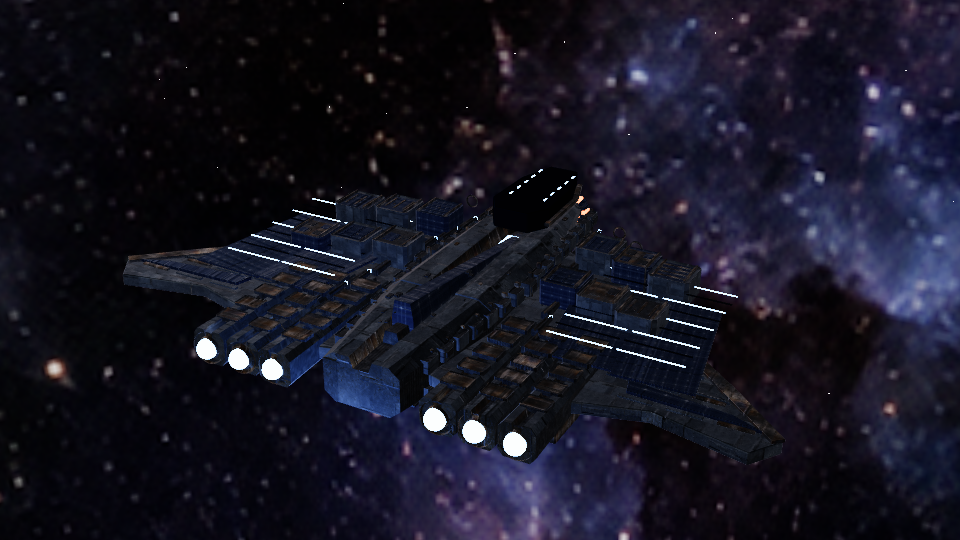
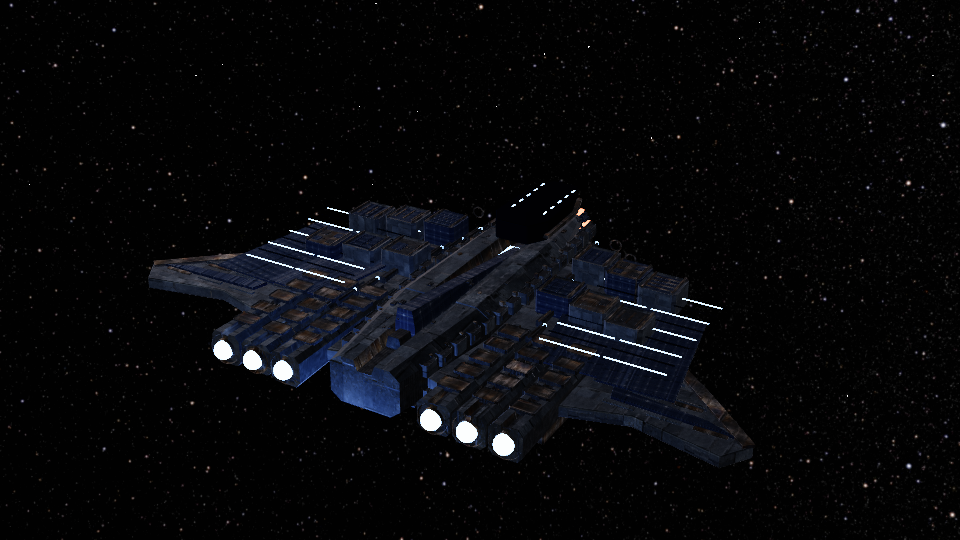
Replace Asterion skybox with NASA 16K star map

diff --git a/examples/build_advanced_space_demo.py b/examples/build_advanced_space_demo.py
@@ -29,7 +29,7 @@ REQUIRED_TEXTURES = (
     "heat_titanium.png", "copper_normal.png", "copper_orm.png",
     "solar_ceramic.png", "solar_normal.png", "solar_orm.png",
     "moon_albedo.png", "moon_normal.png", "moon_orm.png",
-    "space_nebula.png",
+    "nasa_starmap_16k.jpg",
 )
 missing_textures = [name for name in REQUIRED_TEXTURES if not (ASSETS / name).is_file()]
 if missing_textures:
@@ -75,7 +75,7 @@ scene["tixl_project_name"] = "AsterionBreakaway"
 scene["demo_duration_seconds"] = 60
 scene["demo_phases"] = "0-9 COMBAT; 9-21 projectile breakup to EXPLORER; 21-30 EXPLORER; 30-42 projectile breakup to HAULER; 42-51 HAULER; 51-60 return to COMBAT"
 scene["variant_hold_frames"] = "COMBAT 1-541; EXPLORER 1261-1801; HAULER 2521-3061"
-scene["texture_source"] = "GPT Images 2.5; see examples/advanced_spaceship/textures"
+scene["texture_source"] = "GPT Images 2.5 surface maps; NASA/Goddard space panorama; see examples/advanced_spaceship/textures"
 
 world = bpy.data.worlds.new("Near-black interstellar ambient")
 world.use_nodes = True
@@ -160,7 +160,7 @@ def pbr(name, color, metallic, roughness, *, albedo=None, orm=None, normal=None,
         links.new(tex.outputs["Color"], nmap.inputs["Color"])
         links.new(nmap.outputs["Normal"], bsdf.inputs["Normal"])
     if emission:
-        image_node(nodes, links, "GPT Images 2.5 emission", emission, "Emission Color", bsdf)
+        image_node(nodes, links, "Space panorama emission", emission, "Emission Color", bsdf)
         bsdf.inputs["Emission Strength"].default_value = max(emission_strength, 1.0)
     return mat
 
@@ -180,9 +180,9 @@ blue = pbr("05 | ion blue emitter", (0.04, 0.16, 0.28), 0.38, 0.22,
            emission_color=(0.045, 0.43, 0.95), emission_strength=7.0)
 amber = pbr("06 | warning amber emitter", (0.24, 0.10, 0.015), 0.25, 0.3,
             emission_color=(1.0, 0.29, 0.035), emission_strength=3.0)
-nebula = pbr("07 | distant ionized dust photograph", (0.008, 0.014, 0.025), 0, 1,
-             emission="space_nebula.png", emission_color=(0.13, 0.24, 0.4),
-             emission_strength=1.0)
+starfield = pbr("07 | NASA Goddard deep star map", (0, 0, 0), 0, 1,
+                emission="nasa_starmap_16k.jpg", emission_color=(1, 1, 1),
+                emission_strength=2.0)
 planet_mat = pbr("08 | cratered moon regolith", (0.32, 0.31, 0.30), 0.02, 0.91,
                  albedo="moon_albedo.png", orm="moon_orm.png",
                  normal="moon_normal.png")
@@ -685,7 +685,7 @@ for row in range(4):
 
 # A portable space environment: textured emissive geometry and real meshes,
 # since Blender's World shader is not represented by glTF/TiXL.
-backdrop = sky_sphere("DEEP SPACE | GPT Images 2.5 equirectangular sky", nebula, space)
+backdrop = sky_sphere("DEEP SPACE | NASA Goddard 16K star map", starfield, space)
 backdrop["fixed_background"] = True
 moon = sphere("Tethys analogue | cratered moon",(41,80,-14),17,planet_mat,space,80,40)
 moon.rotation_euler=(.31,.12,.45)
@@ -977,4 +977,4 @@ scene["asset_directory"] = "//advanced_spaceship/textures"
 bpy.ops.wm.save_as_mainfile(filepath=str(OUTPUT))
 print("ASTERION_BUILT",{"file":str(OUTPUT),"detachable_parts":scene["detachable_mesh_count"],
                          "space_objects":len(space.objects),"seconds":60,
-                         "texture_files_found":len(list(ASSETS.glob("*.png")))})
+    "texture_files_found":len(REQUIRED_TEXTURES)})

diff --git a/examples/validate_advanced_space_demo.py b/examples/validate_advanced_space_demo.py
@@ -95,8 +95,7 @@ for material in bpy.data.materials:
     if not material.use_nodes or material.node_tree is None:
         continue
     for node in material.node_tree.nodes:
-        if (node.type == "TEX_IMAGE" and node.image is not None
-                and node.label.startswith("GPT Images 2.5")):
+        if node.type == "TEX_IMAGE" and node.image is not None:
             texture_nodes.append((material, node))
 packed_images = {node.image for _, node in texture_nodes}
 required_maps = {
@@ -105,7 +104,7 @@ required_maps = {
     "heat_titanium.png", "copper_normal.png", "copper_orm.png",
     "solar_ceramic.png", "solar_normal.png", "solar_orm.png",
     "moon_albedo.png", "moon_normal.png", "moon_orm.png",
-    "space_nebula.png",
+    "nasa_starmap_16k.jpg",
 }
 used_map_names = {Path(bpy.path.basename(image.filepath)).name
                   for image in packed_images}
@@ -121,6 +120,11 @@ for image in packed_images:
         assert image.colorspace_settings.name == "Non-Color", (
             f"Technical map is not in non-color space: {image.name}"
         )
+sky_image = next(image for image in packed_images
+                 if Path(bpy.path.basename(image.filepath)).name == "nasa_starmap_16k.jpg")
+assert tuple(sky_image.size) == (16384, 8192), (
+    f"The sky panorama is not the full 16K source: {tuple(sky_image.size)}"
+)
 occlusion_routes = 0
 for material in bpy.data.materials:
     if material.use_nodes and material.node_tree:
@@ -279,7 +283,7 @@ summary = {
     "visiblePartCounts": visible_counts,
     "movingCameraShots": camera_motion,
     "animatedDetachableCount": len(animated_detachable),
-    "packedGPTImageCount": len(packed_images),
+    "packedTextureImageCount": len(packed_images),
     "gltfOcclusionRoutes": occlusion_routes,
     "cameraMarkerCount": len(camera_markers),
     "distinctMarkerCameraCount": len(marker_cameras),

diff --git a/examples/advanced_spaceship/README.md b/examples/advanced_spaceship/README.md
@@ -4,7 +4,7 @@ A 60-second Blender-to-TiXL stress scene: one persistent set of 492 spacecraft m
 
 ## Materials and texture assets
 
-Six GPT-generated source images and ten aligned technical maps are supplied in `textures/`. The five surface families each have albedo, tangent normal, and packed occlusion/roughness/metallic maps. The space panorama is an emission texture.
+Five GPT-generated surface images and ten aligned technical maps are supplied in `textures/`. The five surface families each have albedo, tangent normal, and packed occlusion/roughness/metallic maps. The background uses NASA/Goddard's 16,384 × 8,192 equirectangular star map as an emission texture, replacing the 1,774 × 887 generated panorama.
 
 | File | Prompt theme |
 | --- | --- |
@@ -13,9 +13,9 @@ Six GPT-generated source images and ten aligned technical maps are supplied in `
 | `heat_titanium.png` | Heat-scarred copper titanium alloy for exposed structural parts |
 | `solar_ceramic.png` | Blue-black photovoltaic ceramic cells with silver traces |
 | `moon_albedo.png` | Gray cratered moon regolith with varied impact detail |
-| `space_nebula.png` | Deep space nebula panorama with distant luminous dust |
+| `nasa_starmap_16k.jpg` | NASA/Goddard Deep Star Maps spherical star panorama |
 
-The builder requires every map and packs it into the blend. The Blender glTF export includes base color, normal, metallic/roughness, and occlusion links for the five textured surface families. Uniform cockpit glazing and small light emitters use direct PBR values. The source prompts, map derivation method, and file hashes are recorded in [textures/GENERATION.md](textures/GENERATION.md).
+The builder requires every map and packs it into the blend. The Blender glTF export includes base color, normal, metallic/roughness, and occlusion links for the five textured surface families. Uniform cockpit glazing and small light emitters use direct PBR values. The surface prompts, map derivation method, NASA credit, usage terms, and file hashes are recorded in [textures/GENERATION.md](textures/GENERATION.md).
 
 ## Build in Blender
 
@@ -40,9 +40,9 @@ The same hull, survey, and cargo meshes form all three ships. Each module has co
 
 With the saved scene open through Blender MCP TCP, sync it using the bridge workflow and the configured TiXL operator project. In TiXL, inspect the generated world graph and texture routes, then evaluate and capture renders at the COMBAT, breakup, EXPLORER, HAULER, and final assembly markers. Confirm the rendered output as well as graph connections.
 
-The current reference run synced successfully to TiXL 4.3.0.2. Its generated cache contains 642 exported mesh objects and 492 animated reusable craft parts, with no visibility-switch channels. The seven moving camera shots and 60-second range transferred. The generated graph had 29 children and 52 connections, with no missing child or connection references. The full sync took about 58 seconds and published about 179 MB of generated cache data. TiXL rendered all three configurations, both breakup sequences, reassembly, and the final combat ship; see the [TiXL combat](previews/tixl_combat.png), [explorer](previews/tixl_explorer.png), [hauler](previews/tixl_hauler.png), and [graph overview](previews/tixl_graph_overview.png). Compare the [explorer camera move](previews/tixl_explorer_move.png) and [hauler camera move](previews/tixl_hauler_move.png) with their earlier frames. Matching [Blender combat](previews/combat_blender.png), [explorer](previews/explorer_blender.png), [hauler](previews/hauler_blender.png), and [cargo roof detail](previews/detail_hauler_blender.png) renders are included.
+The current reference run synced successfully to TiXL 4.3.0.2. Its generated cache contains 642 exported mesh objects and 492 animated reusable craft parts, with no visibility-switch channels. The seven moving camera shots and 60-second range transferred. The generated graph had 29 children and 52 connections, with no missing child or connection references. The 16K panorama is embedded as an unmodified JPEG image in the glTF scene. The full sync took about 70 seconds and published about 198 MB of generated cache data. TiXL rendered all three configurations, both breakup sequences, reassembly, and the final combat ship; see the [TiXL combat](previews/tixl_combat.png), [explorer](previews/tixl_explorer.png), [hauler](previews/tixl_hauler.png), and [graph overview](previews/tixl_graph_overview.png). Compare the [explorer camera move](previews/tixl_explorer_move.png) and [hauler camera move](previews/tixl_hauler_move.png) with their earlier frames. Matching [Blender combat](previews/combat_blender.png), [explorer](previews/explorer_blender.png), [hauler](previews/hauler_blender.png), and [cargo roof detail](previews/detail_hauler_blender.png) renders are included.
 
-The bounded live playback sample in [playback_metrics.json](playback_metrics.json) advanced the editor clock roughly three seconds in each assembled configuration. TiXL reported 58.9–60.2 FPS, 327–341 MB managed memory, and 247–323 MB GPU memory across those samples. Its output-evaluation counters did not advance during this sample, so these values do not establish continuous scene-rendering performance. The captured output at ten timeline checkpoints verifies the scene content and camera views separately.
+The bounded live playback sample in [playback_metrics.json](playback_metrics.json) advanced the editor clock roughly three seconds in each assembled configuration. TiXL reported 56.0–60.4 FPS, 283–298 MB managed memory, and 921 MB GPU memory across those samples. The 16K sky texture accounts for a substantial increase in GPU use over the previous backdrop. Its output-evaluation counters did not advance during this sample, so these values do not establish continuous scene-rendering performance. The captured output at ten timeline checkpoints verifies the scene content and camera views separately.
 
 ## Current limitations
 

diff --git a/examples/advanced_spaceship/textures/GENERATION.md b/examples/advanced_spaceship/textures/GENERATION.md
@@ -1,6 +1,6 @@
 # Asterion image texture provenance
 
-The six source images were generated with Codex's built-in image-generation tool for the GPT Images 2.5 request. The five surface albedos have aligned tangent-space normal maps and packed ORM maps derived with [`generate_pbr_maps.py`](../generate_pbr_maps.py) through Blender MCP TCP. ORM channels are red occlusion, green roughness, and blue metallic. These technical derivatives are inferred from the source images; they are not measured scans or separately AI-painted height maps. All 16 images are packed into `AsterionBreakaway.blend`. The space panorama supplies emission color only.
+The five surface albedos were generated with Codex's built-in image-generation tool for the GPT Images 2.5 request. They have aligned tangent-space normal maps and packed ORM maps derived with [`generate_pbr_maps.py`](../generate_pbr_maps.py) through Blender MCP TCP. ORM channels are red occlusion, green roughness, and blue metallic. These technical derivatives are inferred from the source images; they are not measured scans or separately AI-painted height maps. All 16 images are packed into `AsterionBreakaway.blend`. The NASA panorama supplies emission color only.
 
 | File | Dimensions | SHA-256 |
 | --- | --- | --- |
@@ -9,7 +9,10 @@ The six source images were generated with Codex's built-in image-generation tool
[4 lines of base64/hex data omitted]
+
+## Open NASA star panorama
+
[1 lines of base64/hex data omitted]
 
 ## Derived technical maps
 
@@ -28,4 +31,3 @@ The six source images were generated with Codex's built-in image-generation tool
 - **Heat titanium:** Square orthographic, repeatable close-up of heat-treated dark titanium with bronze and copper tint, machined grooves, micro scratches, ceramic scorching and oxidized wear; neutral illumination, no perspective, silhouette, text, logo, or border.
 - **Solar ceramic:** Square orthographic, repeating blue-black photovoltaic ceramic tiles with tiny regular cells, silver conductive traces, subtle wear, and high manufacturing precision; neutral illumination without baked reflections, perspective, text, logo, or border.
 - **Moon albedo:** Square orthographic regolith surface map with cold gray mineral grain, overlapping impact craters, radial ejecta, and subtle basalt; flat neutral illumination without a baked terminator, spherical silhouette, stars, text, or border.
-- **Space nebula:** Wide deep-space background for the inside of a UV-mapped sky sphere: dark interstellar negative space, sharp stars of varied temperatures, distant blue-violet nebula dust and faint amber emission; no spacecraft, planet, foreground, lens flare, text, or border.
